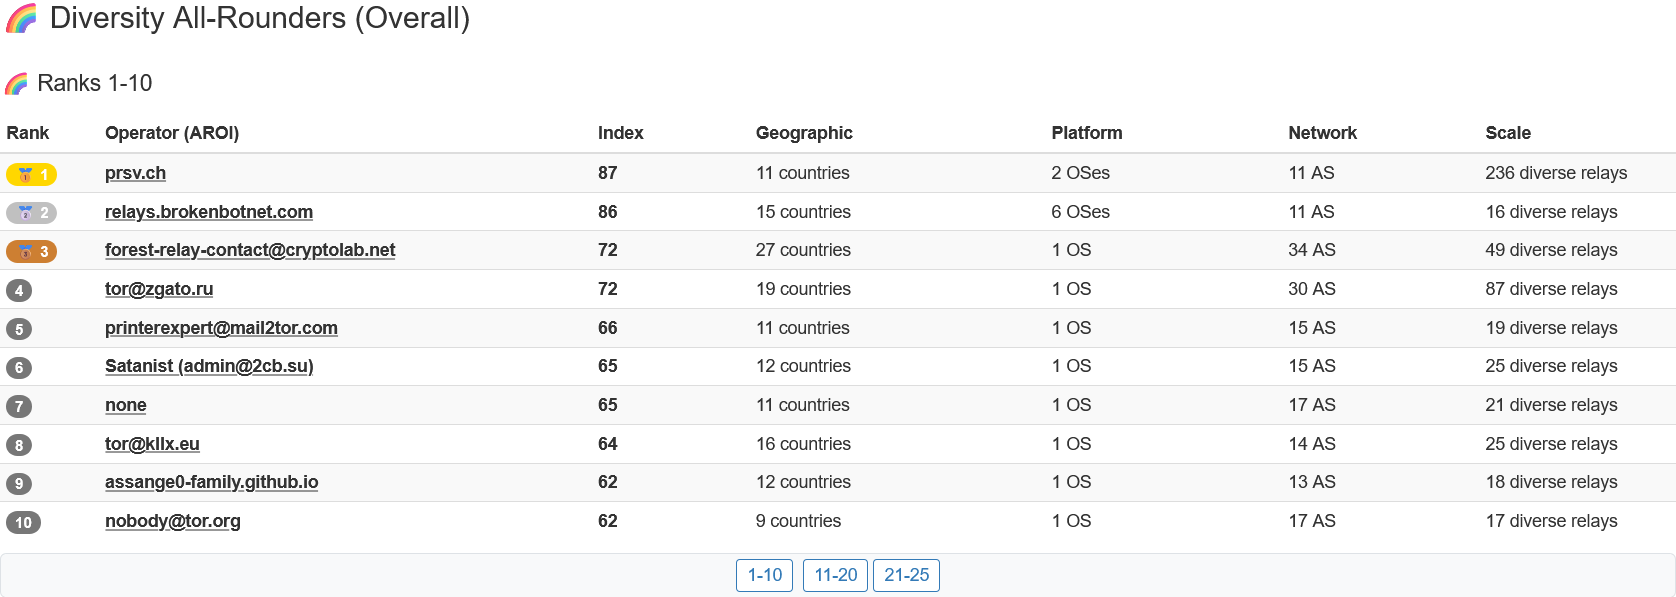
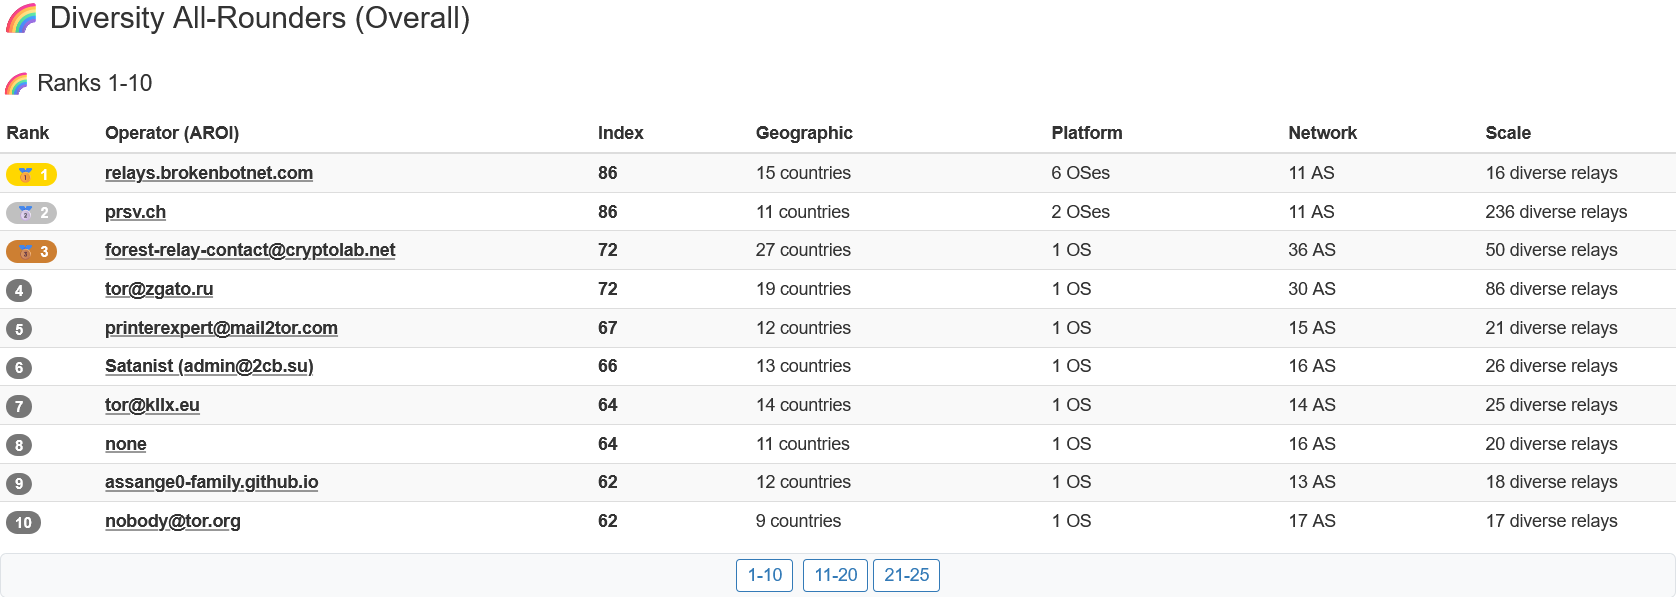
📝 docs(posts): refresh relay rankings and validation
- replace the diversity, champion, and 1AEO snapshots
- reflect first-place diversity and OS breadth rankings
- record successful validation of all 16 public relays
- update article modification dates and image descriptions

diff --git a/content/posts/linux-bsd-sunos.md b/content/posts/linux-bsd-sunos.md
@@ -2,7 +2,7 @@
 title: "Operating Tor Relays on Linux, BSD, and SunOS"
 seo_title: "Operating Tor Relays Across Linux, BSD, and SunOS"
 date: 2026-04-07
-lastmod: 2026-07-07
+lastmod: 2026-07-17
 slug: "linux-bsd-sunos"
 aliases:
   - "/2026/07/08/tor-relays-linux-bsd-sunos/"
@@ -28,11 +28,11 @@ That difference is one reason I wanted non-Linux relays in Shinobi Relays. Platf
 Different operating systems can strengthen a relay fleet, but each one brings its own service manager, paths, privilege model, and recovery work.
 {{< /post-figure >}}
 
-These AROI snapshots from early July 2026 show how that cross-platform work was reflected in the independent operator rankings.
+These AROI snapshots from mid-July 2026 show how that cross-platform work was reflected in the independent operator rankings.
 
 <div class="post-figure-pair">
-{{< post-figure src="images/posts/linux-bsd-sunos/aroi-champion-rankings.png" alt="AROI Champion Rankings listing eight placements for relays.brokenbotnet.com, including OS Polyglot and Non-Linux Powerhouse" >}}
-Eight AROI Champion placements for relays.brokenbotnet.com.
+{{< post-figure src="images/posts/linux-bsd-sunos/aroi-champion-rankings.png" alt="AROI Champion Rankings listing eight placements for relays.brokenbotnet.com, including first place for Diversity All-Rounder and OS Polyglot" >}}
+Eight AROI Champion placements for relays.brokenbotnet.com, including first place for overall diversity and operating-system breadth.
 {{< /post-figure >}}
 {{< post-figure src="images/posts/linux-bsd-sunos/aroi-os-polyglot-ranking.png" alt="AROI OS Polyglots table ranking relays.brokenbotnet.com first with six distinct operating systems" >}}
 The OS Polyglots ranking places relays.brokenbotnet.com first for platform breadth in this snapshot.

diff --git a/content/posts/tor-relays-project.md b/content/posts/tor-relays-project.md
@@ -2,7 +2,7 @@
 title: "Returning the Favor: Building the Tor Relay Stack I Always Wanted"
 seo_title: "Why I Built Tor Guard Relay"
 date: 2025-11-01
-lastmod: 2026-07-16
+lastmod: 2026-07-17
 slug: "tor-relays-project"
 aliases:
   - "/2025/12/13/tor-relays-project/"
@@ -207,10 +207,10 @@ Diversity matters here more than raw instance count. Twenty relays concentrated 
 
 The fleet also has an independent [1AEO metrics](https://metrics.1aeo.com/relays.brokenbotnet.com/) page. It checks the public relays using Tor data rather than trusting my inventory. Its report validates the AROI and CIISS v3 contact record, relay-family proof, geographic and network diversity, platforms, uptime, and measured bandwidth.
 
-In its 11 July 2026 data snapshot, 1AEO sees all sixteen public relays: fifteen validate successfully, while one newly updated family record is waiting for Onionoo to expose the required metadata. The eight bridges are absent by design because bridges are not listed in the public consensus.
+In its 17 July 2026 data snapshot, 1AEO sees and successfully validates all sixteen public relays. The eight bridges are absent by design because bridges are not listed in the public consensus.
 
-{{< post-figure src="images/posts/tor-relays-project/1aeo-independent-validation.png" alt="1AEO contact and network overview validating relays.brokenbotnet.com and showing sixteen public relays across fifteen locations" class="post-figure--wide" >}}
-The 1AEO view captured on 12 July 2026 from data last updated on 11 July. My dashboard documents intended infrastructure; Onionoo and 1AEO show what the public Tor network can verify.
+{{< post-figure src="images/posts/tor-relays-project/1aeo-independent-validation.png" alt="1AEO contact and network overview validating all sixteen public relays for relays.brokenbotnet.com across fifteen locations" class="post-figure--wide" >}}
+The 1AEO view captured on 17 July 2026 validates the complete public relay set. My dashboard documents intended infrastructure; Onionoo and 1AEO show what the public Tor network can verify.
 {{< /post-figure >}}
 
 This evidence still has limits. Public metrics cannot verify private bridge reachability, backup quality, provider independence, or whether two differently branded services share an upstream control plane.

diff --git a/content/posts/diversity-first.md b/content/posts/diversity-first.md
@@ -2,7 +2,7 @@
 title: "Why Relay Diversity Matters More Than Raw Node Count"
 seo_title: "Why Tor Relay Diversity Matters More Than Node Count"
 date: 2026-05-22
-lastmod: 2026-07-11
+lastmod: 2026-07-17
 slug: "diversity-first"
 aliases:
   - "/2025/11/19/relay-diversity-over-node-count/"
@@ -96,8 +96,8 @@ A useful diversity report should answer:
 5. Which relays depend on the same account, tunnel, or maintenance process?
 6. Which loss would remove a unique region, role, or platform?
 
-{{< post-figure src="images/posts/diversity-first/aroi-diversity-all-rounders.png" alt="AROI Diversity All-Rounders table ranking relays.brokenbotnet.com second with coverage across fifteen countries, six operating systems, and eleven autonomous systems" class="post-figure--wide" >}}
-A July 2026 [AROI snapshot](https://metrics.1aeo.com/relays.brokenbotnet.com/) combines geographic, platform, network, and fleet breadth into one independent view. Rankings change, but the dimensions being measured are more useful than raw relay count alone.
+{{< post-figure src="images/posts/diversity-first/aroi-diversity-all-rounders.png" alt="AROI Diversity All-Rounders table ranking relays.brokenbotnet.com first with coverage across fifteen countries, six operating systems, and eleven autonomous systems" class="post-figure--wide" >}}
+A mid-July 2026 [AROI snapshot](https://metrics.1aeo.com/relays.brokenbotnet.com/) lists Shinobi Relays first overall for combined geographic, platform, network, and fleet breadth. Rankings change, but the dimensions being measured are more useful than raw relay count alone.
 {{< /post-figure >}}
 
 Tor's operator expectations add a network-wide boundary: one operator should avoid controlling more than 20 percent of total Exit capacity or 10 percent of total consensus weight.[^operator-expectations] Shinobi Relays is far below those thresholds, but they are useful reminders that operator concentration matters alongside provider and platform concentration.